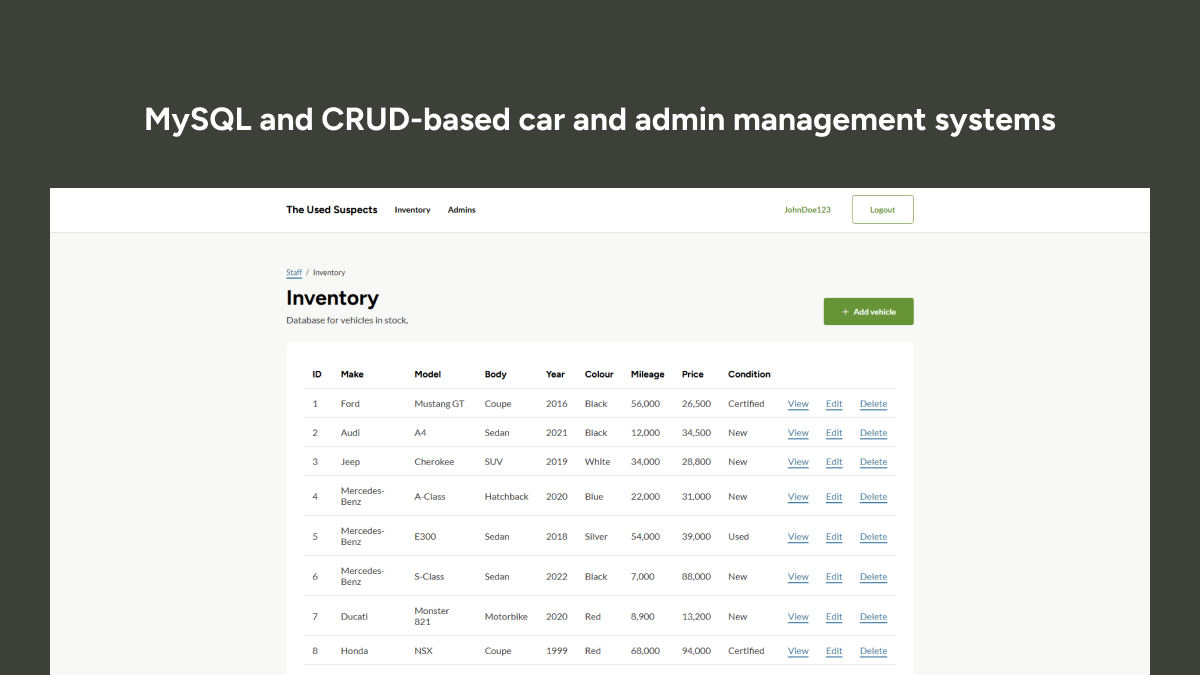
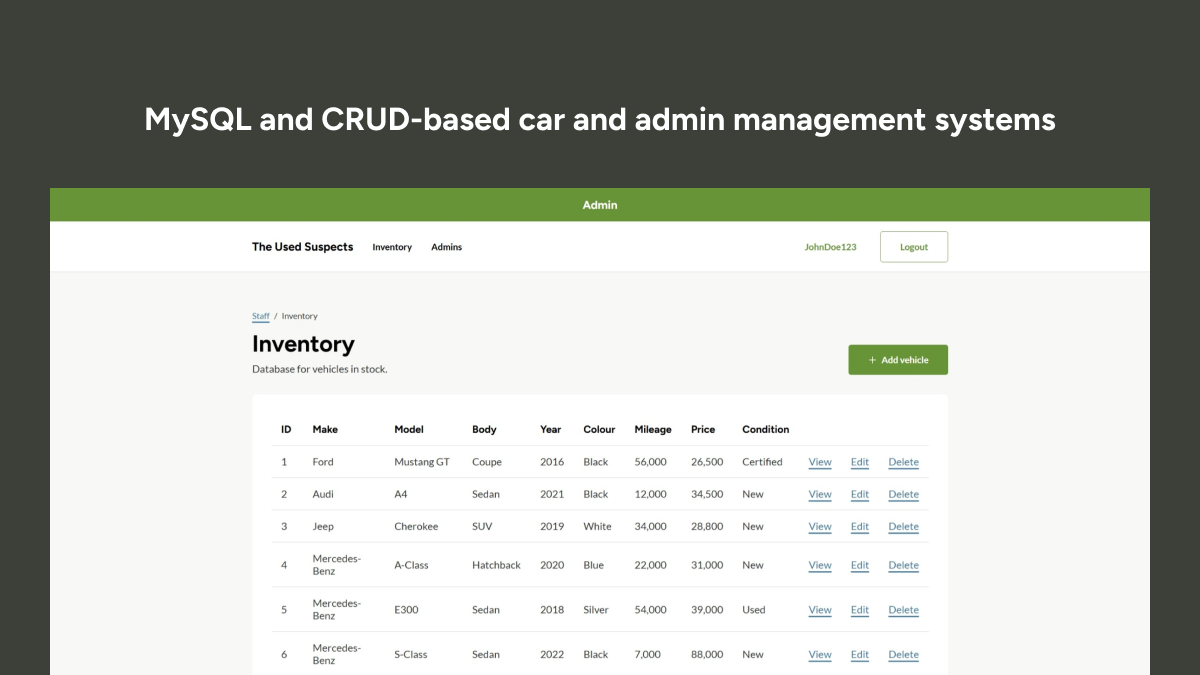
Mobile responsive and admin dashboard improvements

diff --git a/public/stylesheets/staff.css b/public/stylesheets/staff.css
@@ -1,3 +1,21 @@
+/* NAVIGATION */
+
+.banner_message {
+    background-color: var(--pri_color);
+    color: white;
+}
+
+.banner_message h4 {
+    margin: 15px 0;
+    padding: 0;
+}
+
+.banner_content {
+    display: flex;
+    justify-content: center;
+    align-items: center;
+}
+
 /* STAFF DASHBOARD PAGE */
 
 .admin_banner {
@@ -118,6 +136,15 @@
     .navigation_left {
         width: 100%;
         justify-content: space-between;
+    }
+    .navigation_right {
+        display: flex;
+    }
+    .navigation_right .tertiary_button {
+        display: none;
+    }
+    .staff_menu_links {
+        display: none;
     }
 
     /* MAIN CONTENT */

diff --git a/public/staff/cars/show.php b/public/staff/cars/show.php
@@ -23,7 +23,6 @@ include(SHARED_PATH . '/staff_navigation.php');
 
         <div class="section_content">
 
-            <?php echo display_session_message(); ?>
 
             <div class="heading_container">
                 <div class="breadcrumb_menu">
@@ -41,6 +40,8 @@ include(SHARED_PATH . '/staff_navigation.php');
                 </div>
 
             </div>
+
+            <?php echo display_session_message(); ?>
 
             <div class="content_container">
 

diff --git a/private/shared/staff_navigation.php b/private/shared/staff_navigation.php
@@ -19,6 +19,12 @@
 
 <body>
 
+    <div class="banner_message">
+        <div class="banner_content">
+            <h4>Admin</h4>
+        </div>
+    </div>
+
     <nav class="navigation_section">
 
         <div class="navigation_content">
